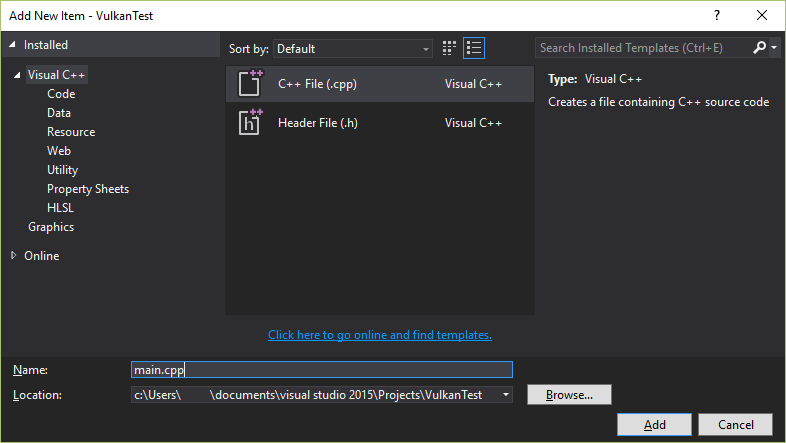
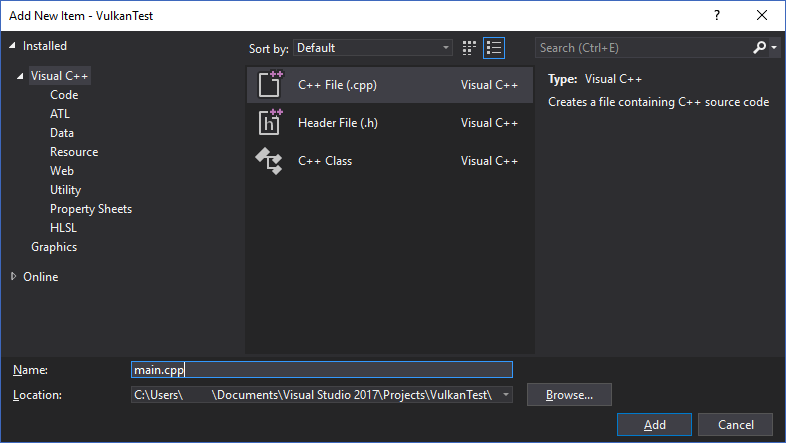
Update the tutorial for Visual Studio 2017

diff --git a/02_Development_environment.md b/02_Development_environment.md
@@ -7,10 +7,7 @@ separately here.
 ## Windows
 
 If you're developing for Windows, then I will assume that you are using Visual
-Studio 2013 or 2015 to compile your code. The steps are the same for both
-versions, but the Vulkan SDK currently only includes debug symbols that are
-compatible with Visual Studio 2013. That isn't really a problem in practice, but
-it's something that you may wish to take into account.
+Studio 2017 to compile your code. You may also use Visual Studio 2013 or 2015, but the steps may be a bit different.
 
 ### Vulkan SDK
 
@@ -29,7 +26,7 @@ be useful to you.
 Proceed through the installation and pay attention to the install location of
 the SDK. The first thing we'll do is verify that your graphics card and driver
 properly support Vulkan. Go to the directory where you installed the SDK, open
-the `Bin32` directory and run the `cube.exe` demo. You should see the following:
+the `Bin` directory and run the `cube.exe` demo. You should see the following:
 
 ![](/images/cube_demo.png)
 
@@ -38,18 +35,11 @@ include the Vulkan runtime and that your graphics card is supported. See the
 [introduction chapter](!Introduction) for links to drivers from the major
 vendors.
 
-There are two other programs in this directory that will be useful for
-development. The `vkjson_info.exe` program generates a JSON file with a detailed
-description of the capabilities of your hardware when using Vulkan. If you are
-wondering what support is like for extensions and other optional features among
-the graphics cards of your end users, then you can use [this website](http://vulkan.gpuinfo.org/)
-to view the results of a wide range of GPUs.
-
-The `glslangValidator.exe` program will be used to compile shaders from the
+There is another program in this directory that will be useful for development. The `glslangValidator.exe` program will be used to compile shaders from the
 human-readable [GLSL](https://en.wikipedia.org/wiki/OpenGL_Shading_Language) to
 bytecode. We'll cover this in depth in the [shader modules](!Drawing_a_triangle/Graphics_pipeline_basics/Shader_modules)
-chapter. The `Bin32` directory also contains the binaries of the Vulkan loader
-and the validation layers, while the `Lib32` directory contains the libraries.
+chapter. The `Bin` directory also contains the binaries of the Vulkan loader
+and the validation layers, while the `Lib` directory contains the libraries.
 
 The `Doc` directory contains useful information about the Vulkan SDK and an
 offline version of the entire Vulkan specification. Lastly, there's the
@@ -68,9 +58,9 @@ it also abstracts away some of the other platform-specific things in Vulkan
 besides just window creation.
 
 You can find the latest release of GLFW on the [official website](http://www.glfw.org/download.html).
-In this tutorial we'll be using the 32-bit binaries, but you can of course also
-choose to build in 64 bit mode. In that case make sure to link with the Vulkan
-SDK binaries in the `Bin` directory. After downloading it, extract the archive
+In this tutorial we'll be using the 64-bit binaries, but you can of course also
+choose to build in 32 bit mode. In that case make sure to link with the Vulkan
+SDK binaries in the `Lib32` directory instead of `Lib`. After downloading it, extract the archive
 to a convenient location. I've chosen to create a `Libraries` directory in the
 Visual Studio directory under documents.
 
@@ -95,16 +85,15 @@ Now that you've installed all of the dependencies we can set up a basic Visual
 Studio project for Vulkan and write a little bit of code to make sure that
 everything works.
 
-Start Visual Studio and create a new C++ Win32 project.
+Start Visual Studio and create a new `Windows Desktop Wizard` project by entering a name and pressing `OK`.
 
 ![](/images/vs_new_cpp_project.png)
 
-Click `Next`, select `Console application` as application type and make sure
-that `Empty project` is checked.
+Make sure that `Console Application (.exe)` is selected as application type so that we have a place to print debug messages to, and check `Empty Project` to prevent Visual Studio from adding boilerplate code.
 
 ![](/images/vs_application_settings.png)
 
-Press `Finish` to create the project and add a C++ source file. You should
+Press `OK` to create the project and add a C++ source file. You should
 already know how to do that, but the steps are included here for completeness.
 
 ![](/images/vs_new_item.png)
@@ -170,7 +159,7 @@ Add the header directories for Vulkan, GLFW and GLM:
 
 ![](/images/vs_include_dirs.png)
 
-Next, open the editor for library directories:
+Next, open the editor for library directories under `Linker -> General`:
 
 ![](/images/vs_link_settings.png)
 
@@ -189,6 +178,10 @@ Enter the names of the Vulkan and GLFW object files:
 
 You can now close the project properties dialog. If you did everything right
 then you should no longer see any more errors being highlighted in the code.
+
+Finally, ensure that you are actually compiling in 64 bit mode:
+
+![](/images/vs_build_mode.png)
 
 Press `F5` to compile and run the project and you should see a command prompt
 and a window pop up like this:
@@ -464,23 +457,10 @@ You can now use this directory as a template for your Vulkan projects. Make a
 copy, rename it to something like `HelloTriangle` and remove all of the code
 in `main.cpp`.
 
-Before we move on, let's explore the Vulkan SDK a bit more. There are two
-programs in it that will be very useful for development. The
-`x86_64/bin/vkjson_info` program generates a JSON file with a detailed
-description of the capabilities of your hardware when using Vulkan. If you are
-wondering what support is like for extensions and other optional features among
-the graphics cards of your end users, then you can use [this website](http://vulkan.gpuinfo.org/)
-to view the results of a wide range of GPUs. This program needs to be run with
-the same `LD_LIBRARY_PATH` variable as your own programs:
-
-```bash
-LD_LIBRARY_PATH=../lib ./vkjson_info
-```
-
-The `x86_64/bin/glslangValidator` program will be used to compile shaders from
+Before we move on, let's explore the Vulkan SDK a bit more. There is another program in it that will be very useful for development. The `x86_64/bin/glslangValidator` program will be used to compile shaders from
 the human-readable [GLSL](https://en.wikipedia.org/wiki/OpenGL_Shading_Language)
 to bytecode. We'll cover this in depth in the [shader modules](!Drawing_a_triangle/Graphics_pipeline_basics/Shader_modules)
-chapter. It does not depend on the Vulkan library.
+chapter.
 
 The `Doc` directory contains useful information about the Vulkan SDK and an
 offline version of the entire Vulkan specification. Feel free to explore the

diff --git a/03_Drawing_a_triangle/01_Presentation/01_Swap_chain.md b/03_Drawing_a_triangle/01_Presentation/01_Swap_chain.md
@@ -556,7 +556,7 @@ void cleanup() {
 }
 ```
 
-Now run the application to ensure that the swap chain is created successfully!
+Now run the application to ensure that the swap chain is created successfully! If at this point you get an access violation error in `vkCreateSwapchainKHR`, then see the [FAQ entry](!FAQ) about the Steam overlay layer.
 
 Try removing the `createInfo.imageExtent = extent;` line with validation layers
 enabled. You'll see that one of the validation layers immediately catches the

diff --git a/99_FAQ.md b/99_FAQ.md
@@ -19,3 +19,7 @@ few possible workarounds:
     * Opt out of the Steam beta program.
     * Set the `DISABLE_VK_LAYER_VALVE_steam_overlay_1` environment variable to `1`
     * Delete the Steam overlay Vulkan layer entry in the registry under `HKEY_LOCAL_MACHINE\SOFTWARE\Khronos\Vulkan\ImplicitLayers`
+
+Example:
+
+![](/images/steam_layers_env.png)
